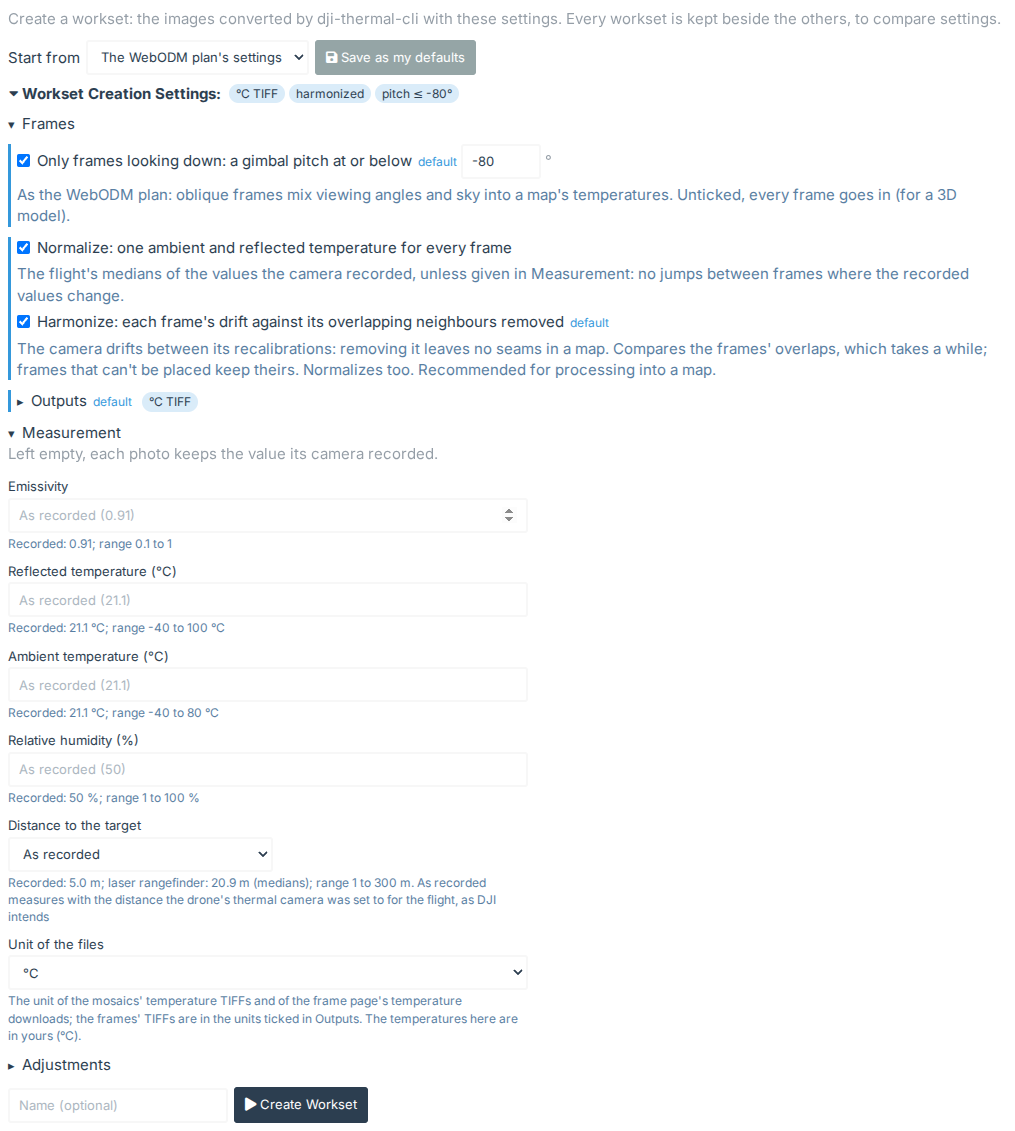
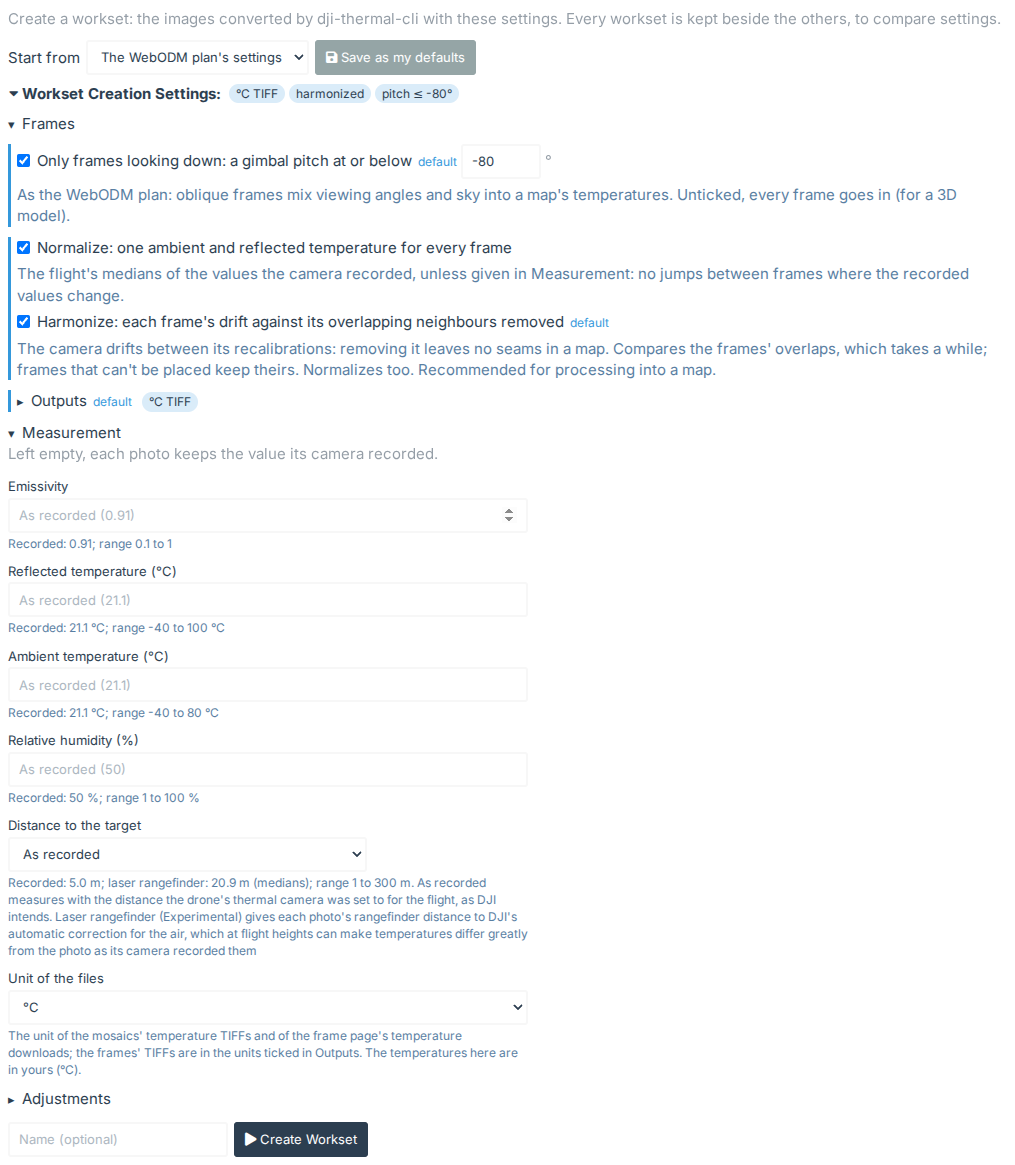
D5: Laser rangefinder marked experimental, and a page on how DJI uses distance
The rangefinder's distance goes into DJI's correction for the air, which at
flight heights can take temperatures far from the photo as its camera recorded
them; the choice now says so. docs/distance.md explains the distances a photo
holds (the camera's, the rangefinder's, the drone's altitude), what DJI does
with the distance, and why the rangefinder is experimental.

Changed region(s): [[0.0, 0.0, 0.9773, 0.9593], [0.2443, 0.9593, 0.3665, 0.9903]]

diff --git a/dji-thermal/public/thermal/MeasurementSettings.jsx b/dji-thermal/public/thermal/MeasurementSettings.jsx
@@ -94,7 +94,7 @@ export default class MeasurementSettings extends React.Component {
                         <select id="dji-thermal-distance-mode" className="form-control dji-thermal-input" value={distanceMode}
                                 disabled={disabled} onChange={this.setValue("distanceMode")}>
                             <option value="embedded">{_("As recorded")}</option>
-                            <option value="lrf">{_("Laser rangefinder, else as recorded")}</option>
+                            <option value="lrf">{_("Laser rangefinder, else as recorded (Experimental)")}</option>
                             <option value="value">{_("Set for all photos")}</option>
                         </select>
                         {distanceMode === "value" ?
@@ -106,7 +106,7 @@ export default class MeasurementSettings extends React.Component {
                         : ""}
                         {this.renderError("distance")}
                         <span className="help-block">{distanceMode === "lrf" ?
-                            _("Each photo's laser rangefinder distance where it has a valid one, else the distance its camera recorded. DJI's correction for the air grows with distance and is large at flight heights.") + " " :
+                            _("Experimental: each photo's laser rangefinder distance where it has a valid one, else the distance its camera recorded, given to DJI's automatic correction for the air. That correction grows with distance: at flight heights it can make temperatures differ greatly from the photo as its camera recorded them.") + " " :
                             distanceMode === "embedded" ?
                             _("The distance the drone's thermal camera was set to for the flight (5 m on the M4T unless changed in DJI Pilot 2), as DJI intends and as DJI's own tools measure.") + " " : ""}
                             {interpolate(_("Range: %(range)s"), {range: rangeText("distance", combined, unit)})}</span>

diff --git a/dji-thermal/public/conversions.js b/dji-thermal/public/conversions.js
@@ -7,7 +7,7 @@
 
     var STATUS_LABELS = {converting: "Converting", ready: "Converted", failed: "Failed", canceled: "Canceled"};
     // As the DJI Thermal Task panel names them (thermal/MeasurementSettings.jsx), in its order
-    var DISTANCE_MODES = [["embedded", "As recorded"], ["lrf", "Laser rangefinder, else as recorded"], ["fixed", "Set for all photos"]];
+    var DISTANCE_MODES = [["embedded", "As recorded"], ["lrf", "Laser rangefinder, else as recorded (Experimental)"], ["fixed", "Set for all photos"]];
     var UNIT_LABELS = {C: "°C", F: "°F", K: "K"};
     // The measurement parameters with the analysis' column of each image's recorded value (Celsius for temperatures)
     var MEASUREMENTS = [
@@ -125,7 +125,9 @@
                 return '<option value="' + m[0] + '"' + (sel ? " selected" : "") + ">" + esc(m[1]) + "</option>";
             }).join("") + "</select>" + numberInput("distance", fixed ? s.distance : "", ' step="0.1" min="0.1" placeholder="m"' + (fixed ? "" : " hidden")) +
             "</div>", esc(withRange(distanceHelp, "distance") + ". As recorded measures with the distance the drone's thermal " +
-                "camera was set to for the flight, as DJI intends"));
+                "camera was set to for the flight, as DJI intends. Laser rangefinder (Experimental) gives each photo's rangefinder " +
+                "distance to DJI's automatic correction for the air, which at flight heights can make temperatures differ greatly " +
+                "from the photo as its camera recorded them"));
         var measurement = MEASUREMENTS.map(function (m) {
                 var hint = m.temperature ? core.convertTemp(rec[m.hint], "C") : rec[m.hint];
                 var label = m.label + (m.temperature ? " (" + u + ")" : m.unit ? " (" + m.unit + ")" : "");

diff --git a/dji-thermal/public/__tests__/analyzer.test.js b/dji-thermal/public/__tests__/analyzer.test.js
@@ -1460,9 +1460,13 @@ describe("a dataset's conversions", () => {
         expect(html).toContain("Recorded: 5.0 m; laser rangefinder: 20.7 m");
         // As recorded first and chosen by default, said to be the camera's setting as DJI intends
         const modes = Array.from(document.querySelectorAll('[name="distance_mode"] option'));
-        expect(modes.map(o => o.textContent)).toEqual(["As recorded", "Laser rangefinder, else as recorded", "Set for all photos"]);
+        expect(modes.map(o => o.textContent)).toEqual(["As recorded", "Laser rangefinder, else as recorded (Experimental)", "Set for all photos"]);
         expect(modes.filter(o => o.selected).map(o => o.value)).toEqual(["embedded"]);
         expect(html).toContain("As recorded measures with the distance the drone's thermal camera was set to for the flight, as DJI intends");
+        // The rangefinder is experimental: DJI's automatic correction can take temperatures far from the photo's
+        expect(document.getElementById("f").textContent).toContain("Laser rangefinder (Experimental) gives each photo's rangefinder " +
+            "distance to DJI's automatic correction for the air, which at flight heights can make temperatures differ greatly " +
+            "from the photo as its camera recorded them");
         expect(html).toContain("Reflected temperature (°F)");
         expect(html).toContain("Recorded: 68.0 °F");      // 20 °C
         expect(html).toContain("Recorded: 0.91");

diff --git a/docs/distance.md b/docs/distance.md
@@ -1,0 +1,140 @@
+# How DJI uses distance
+
+A DJI thermal photo holds several distances and heights: the distance the thermal camera was set to, the laser
+rangefinder's reading, and the drone's altitude. Only one of them goes into the temperatures. This page explains what
+each one is, what DJI does with the distance, and why the plugin measures **As recorded** by default and marks
+**Laser rangefinder, else as recorded** as experimental. The setting itself is described in
+[Measurement settings](measurement.md#distance-to-the-target).
+
+The findings below come from reading dji-thermal-cli and its port of DJI's Thermal SDK 1.8, and from measuring DJI's
+sample images and one M4T flight with it. Where a finding rests on less than that, it says so.
+
+## What the distance is for
+
+A thermal camera measures the infrared radiation reaching it, not temperature. Between the surface and the camera,
+the air absorbs some of the surface's radiation and adds some of its own. DJI's SDK corrects for that air from three
+values: the distance, the ambient temperature and the relative humidity. The distance is only an input to this
+correction. It isn't used to place the photo, focus the camera or change the photo's raw data.
+
+**The raw data doesn't depend on the distance.** On the photos checked (the iirp format, the M4T's on older
+firmware, and most other DJI cameras), the raw values are the camera's uncorrected reading, and DJI applies the
+correction on top when it computes temperatures. So any distance can be applied afterwards, and changing it changes
+only how the photo is measured, never the photo. The hirp format (the M3TD and M4T on newer firmware) hasn't been
+checked this way.
+
+## The distances in a photo
+
+| Value in the photo | What it is | Used for temperatures? |
+|---|---|---|
+| The thermal camera's distance, in DJI's thermal data | The distance the pilot set in DJI Pilot 2's temperature measurement settings. On the M4T it is 5 m (16 ft) unless changed, with 50 % humidity. | Yes, by DJI's apps and tools, and by the plugin by default (**As recorded**). |
+| `LRFTargetDistance` | The laser rangefinder's beam length, from the camera to the point the laser hit. | Only if you choose **Laser rangefinder** (experimental). |
+| `LRFTargetAbsAlt`, `LRFTargetLat`, `LRFTargetLon` | Where the laser hit, as a position and altitude. | No. |
+| `RelativeAltitude`, `AbsoluteAltitude` | The drone's height above take-off, and its altitude. | No. |
+
+**The camera doesn't take the rangefinder's distance on the M4T.** With its default settings, the M4T writes 5 m into
+every photo, whatever the drone's height. On the M4T flight checked, all 217 photos record 5 m, while the rangefinder
+read from 8.9 m to 30.4 m (23.9 m median). Other models may differ: DJI's H30T documentation says DJI Pilot 2 can read
+the rangefinder automatically, and DJI's H30T sample image records 13 m. This hasn't been checked on an H30T flight.
+
+**DJI calibrates the camera at a fixed distance.** DJI's Thermal Analysis Tool guide (v1.2) says: "The camera's
+default calibration distance is generally fixed during production. This is the distance at which temperature
+measurements are the most accurate."
+
+**The target's altitude is computed, not measured.** `LRFTargetAbsAlt` is the drone's altitude minus the drop along
+the laser beam: `AbsoluteAltitude - LRFTargetDistance x sin(-gimbal pitch)`. On the M4T flight this formula matches
+the recorded value to within 0.06 m (the median over its 217 photos). So the value is only as good as the drone's
+altitude. It is the altitude of whatever the laser hit (a roof, a tree's canopy, the ground), not an object's height.
+The plugin's mosaics use it only to place frames, never to measure.
+
+**The drone's altitude isn't a distance to the surface.** `RelativeAltitude` is the height above the take-off point,
+not above the ground under the drone, and the camera is often tilted. Neither DJI's SDK nor the plugin uses the
+altitude for temperatures.
+
+## One distance for the whole photo
+
+DJI's SDK takes one distance per photo, and every pixel is measured with it. The laser hits one point, near the
+centre of the frame. In a straight-down photo of a roof with the ground 6 m lower around it, a laser reading from the
+roof is applied to the ground too. In an oblique photo, the near and far edges of the frame get the centre's distance.
+
+## What each camera accepts
+
+Each camera accepts a range of distances, read from DJI's sample images with the SDK the plugin uses:
+
+| Cameras | Distance accepted |
+|---|---|
+| M3TD and M4T on newer firmware (hirp) | 0 to 1000 m |
+| H30T, and the M4T on older firmware (iirp) | 1 to 300 m |
+| H20N, M2EA, M30T, M3T, and the M3TD on older firmware | 1 to 25 m |
+| H20T, XT S | 1 to 25 m, in whole metres. They ignore the distance the photo records and use 5 m unless given another, and the XT S won't measure below 5 m. |
+
+**A rangefinder reading is clamped to the camera's range.** On the cameras that accept up to 25 m, a reading of 60 m
+or 120 m at mapping heights is measured as 25 m. Each photo's notes say so, but the photo is still counted as measured
+with the rangefinder.
+
+## What the distance does to the temperatures
+
+DJI's correction treats a longer distance as more air, which absorbs more of the surface's radiation. On the M4T
+flight, DJI's table gives the share of the radiation that gets through as:
+
+| Distance | Radiation getting through |
+|---|---|
+| 1 m | 0.945 |
+| 5 m (as recorded) | 0.858 |
+| 25 m | 0.716 |
+| 120 m | 0.433 |
+
+These shares were read at 20 °C. The SDK accepts no distance below 1 m on these photos, so even 5 m is a correction,
+not none.
+
+To undo the absorption, the SDK pushes each pixel away from the ambient temperature you enter. A surface at the
+ambient temperature doesn't move. Every other surface is pushed further away the longer the distance. From 5 m to
+120 m, the push grows about 1.9 times on the M4T photos checked, 1.7 times on the M3TD sample and 1.4 times on the
+H30T sample.
+
+Measured on one frame of the M4T flight, with the ambient temperature it recorded (27.6 °C):
+
+| Distance | Mean | Coolest pixel |
+|---|---|---|
+| 5 m (as recorded) | 22.8 °C | 13.2 °C |
+| 21 m (the rangefinder's) | 21.8 °C | 10.0 °C |
+| 100 m | 18.8 °C | −3.5 °C |
+| 200 m | 17.8 °C | −3.5 °C |
+
+So at long distances, the result depends mostly on the ambient temperature you enter. The humidity matters far
+less: on that frame at 120 m, 10 % against 95 % moves the coldest pixels by about 0.3 °C.
+
+A scene that spans several degrees can't be put right by choosing the ambient temperature. Take ice at 0 °C and a
+sunlit object at 18 °C, photographed from 120 m. Set the ambient temperature to 18 °C, and the object reads right
+while the ice is pushed about 14 °C too cold. Set it to 0 °C, and the ice reads right while the object is pushed too
+warm by about as much.
+
+## Why Laser rangefinder is experimental
+
+DJI's correction treats 120 m of air as letting through about half the radiation that 5 m of air does. Whether real
+air absorbs that much at drone heights hasn't been measured for this plugin.
+
+The one comparison seen so far points the other way. A user flying over a glacier at 120 m reported that measuring
+with 120 m put either the ice or a reference station about 14 °C off, depending on the ambient temperature entered.
+Measuring with the camera's recorded 5 m put both close to their known temperatures. That is one report, not a
+measurement of the plugin's, but it suggests DJI's correction over-corrects at drone heights.
+
+The rangefinder also brings problems of its own:
+
+- **The temperatures no longer match the camera or DJI's tools.** They differ from the photo as its camera recorded
+  it, by several degrees at flight heights and most in the coldest and warmest surfaces.
+- **One reading covers the whole frame**, from the point the laser hit.
+- **Readings are clamped to 25 m** on most cameras, so mapping flights get a distance that is neither the recorded
+  one nor the real one.
+- **Photos without a valid reading fall back** to the recorded distance, so one flight can mix distances.
+
+So the plugin measures **As recorded** by default, as the drone's thermal camera was set up for the flight. Laser
+rangefinder stays as a choice for testing. If you try it, or a distance of your own, check the result against
+something of known temperature in the scene, such as melting ice at 0 °C, water, or an object you measured. The frame
+page's **Measure again** shows one frame at several distances side by side
+([Measurement settings](measurement.md#trying-other-values-on-one-frame)).
+
+## What each output records
+
+Every temperature TIFF records the distance it was measured with, and where that distance came from: `rangefinder`,
+`embedded` (as recorded) or `option` (set for all photos). See [The converted images](converted-images.md). A
+workset keeps the settings it was converted with.

diff --git a/README.md b/README.md
@@ -111,11 +111,12 @@ viewer's base layers are WebODM's own, loaded by your browser as on WebODM's oth
      the flight and recorded in each photo (on the M4T 5 m unless changed in DJI Pilot 2). The intent of the setting
      is to match the drone's thermal camera, as DJI designed it: DJI calibrates the camera at a fixed distance, and
      its own tools measure each photo with the distance it records. The setting doesn't change the photo's raw data;
-     it only sets how much DJI's SDK corrects for the air. Or **Laser rangefinder, else as recorded** (each photo's
-     rangefinder distance where it has a valid one), or one distance for all photos: at flight heights DJI's
-     correction is large and pushes temperatures away from the ambient temperature, so check a longer distance
-     against something of known temperature
-     ([Measurement settings](docs/measurement.md#distance-ambient-temperature-and-humidity-together)).
+     it only sets how much DJI's SDK corrects for the air. Or **Laser rangefinder, else as recorded (Experimental)**
+     (each photo's rangefinder distance where it has a valid one, given to DJI's automatic correction for the air),
+     or one distance for all photos: at flight heights DJI's correction is large and can make temperatures differ
+     greatly from the photo as its camera recorded them, so check a longer distance against something of known
+     temperature. [How DJI uses distance](docs/distance.md) explains the distances a photo holds and why the
+     rangefinder is experimental.
 4. **Palette**, under Measurement (the Workset Creation Settings' order: Frames, Measurement, Colours): the DJI
    palette the task's thermal map (and the Thermal Inspector) opens in, starting on the one the photos were shot in,
    unless you've chosen a palette in the Analyzer's preferences; the task's images hold temperatures, so the map can

diff --git a/upcoming-changes.md b/upcoming-changes.md
@@ -18,6 +18,17 @@
 - **D3. Distance estimate from the task's DSM** (the user, 2026-11-25), after D2. See "Object distance".
 
 **Done**
+- **D5. Laser rangefinder experimental, and a distance page** (`distance-lrf-experimental`) — 2026-11-26, built. The
+  user, 2026-11-26: "Add "(Experimental)" to the name of the laser rangefinder distance option. Make it clear in its
+  description that it uses DJI's thermal auto correction that can cause temperature values to differ greatly from
+  their source image. We should also add the distance research as a page in the documentation". **Built**: the
+  choice reads "Laser rangefinder, else as recorded (Experimental)" in the thermal task panel
+  (`MeasurementSettings.jsx`) and the Workset Creation Settings (`conversions.js`), its help saying it gives the
+  rangefinder's distance to DJI's automatic correction for the air, which at flight heights can make temperatures
+  differ greatly from the photo as its camera recorded them. New page `docs/distance.md` (How DJI uses distance:
+  the distances a photo holds, one distance per photo, each camera's range and the clamp, what the distance does,
+  why the rangefinder is experimental, what outputs record), linked from `docs/index.md`, `docs/measurement.md` and
+  the README. Screenshot retaken: `workset-settings`. Jest (the menu's names, the help), ESLint.
 - **D4. Distance: as recorded by default** (`d4-distance-embedded`) — 2026-11-25, built. The user, 2026-11-25: "We
   shouldn't use the laser as default. We should actually use whatever the camera was configured for during its
   flight", and: "be sure to point out in the description and documentation that the intent of the distance setting

diff --git a/docs/measurement.md b/docs/measurement.md
@@ -56,10 +56,14 @@ firmware: their raw values are the camera's uncorrected reading, and DJI correct
 
 - **As recorded** (the default): the distance the drone's thermal camera was set to for the flight, as recorded in
   each photo. It's usually 5 m whatever the flight height. The temperatures match DJI's own tools.
-- **Laser rangefinder, else as recorded**: each photo's laser rangefinder distance where it has a valid one, else
-  the distance its camera recorded. Of the photos checked, every M4T photo has one; DJI's sample images have none.
-  DJI's correction for the air grows quickly with distance and is large at flight heights (below).
+- **Laser rangefinder, else as recorded (Experimental)**: each photo's laser rangefinder distance where it has a
+  valid one, else the distance its camera recorded, given to DJI's automatic correction for the air. Of the photos
+  checked, every M4T photo has one; DJI's sample images have none. The correction grows quickly with distance: at
+  flight heights it can make temperatures differ greatly from the photo as its camera recorded them (below).
 - **Set for all photos**: one distance you type.
+
+[How DJI uses distance](distance.md) explains each distance a photo holds (the camera's, the rangefinder's, the
+drone's altitude), what DJI's correction does with it, and why Laser rangefinder is experimental.
 
 ## Distance, ambient temperature and humidity together
 

diff --git a/docs/index.md b/docs/index.md
@@ -72,6 +72,8 @@ Each one walks through a task from start to finish.
 - [Installing](installing.md): WebODM in Docker (Linux, Windows, macOS) or WebODM's native Windows installer.
 - [Measurement settings](measurement.md): emissivity, distance, reflected and ambient temperature, humidity, and
   what each one changes.
+- [How DJI uses distance](distance.md): the thermal camera's distance, the laser rangefinder and the drone's
+  altitude, what DJI's correction for the air does with the distance, and why Laser rangefinder is experimental.
 - [Palettes and units](palettes.md): how temperatures are coloured and in which unit they're shown.
 - [DJI's own Thermal SDK](dji-sdk.md): having DJI's library compute the temperatures instead.
 
